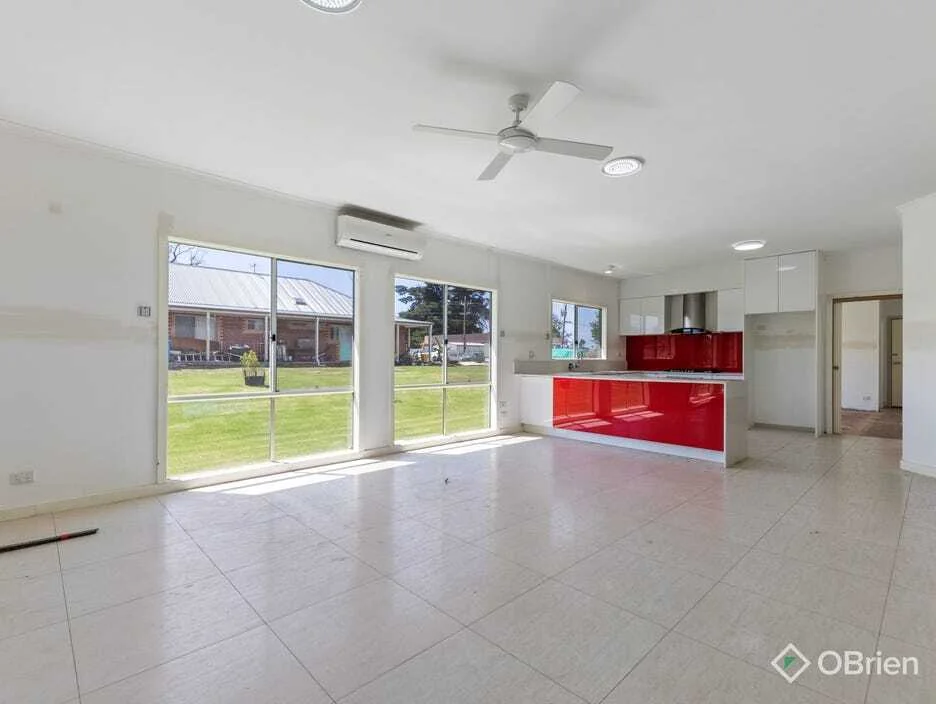
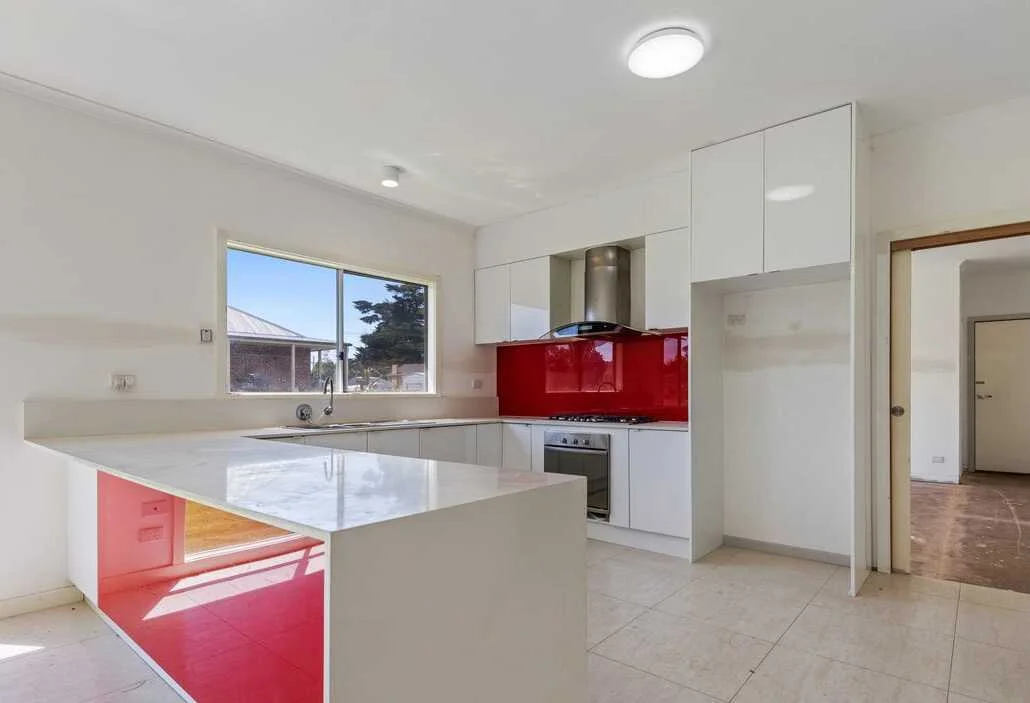
Update homepage portfolio to feature Devon Meadows and convert kitchen image to webp
- Change third portfolio item from Beaconsfield to Devon Meadows case study
- Convert kitchen-before.jpg to webp format for optimization

diff --git a/src/pages/HomePage.tsx b/src/pages/HomePage.tsx
@@ -300,11 +300,11 @@ export function HomePage() {
                 image: '/projects/home2/after-bath.webp'
               },
               {
-                id: 'beaconsfield-transformation',
-                title: 'Beaconsfield Property Transformation',
-                suburb: 'Beaconsfield',
-                summary: 'Auction purchase renovation designed for market repositioning.',
-                metric: '$800,000 Sale Result',
+                id: 'devon-meadows-transformation',
+                title: 'Devon Meadows Property Transformation',
+                suburb: 'Devon Meadows',
+                summary: 'Risk recovery renovation of an unfinished property. Sold $1,455,000.',
+                metric: '$1,455,000 Sale Result',
                 image: '/projects/home3/kitchen.webp'
               }
             ].map((project) => (
